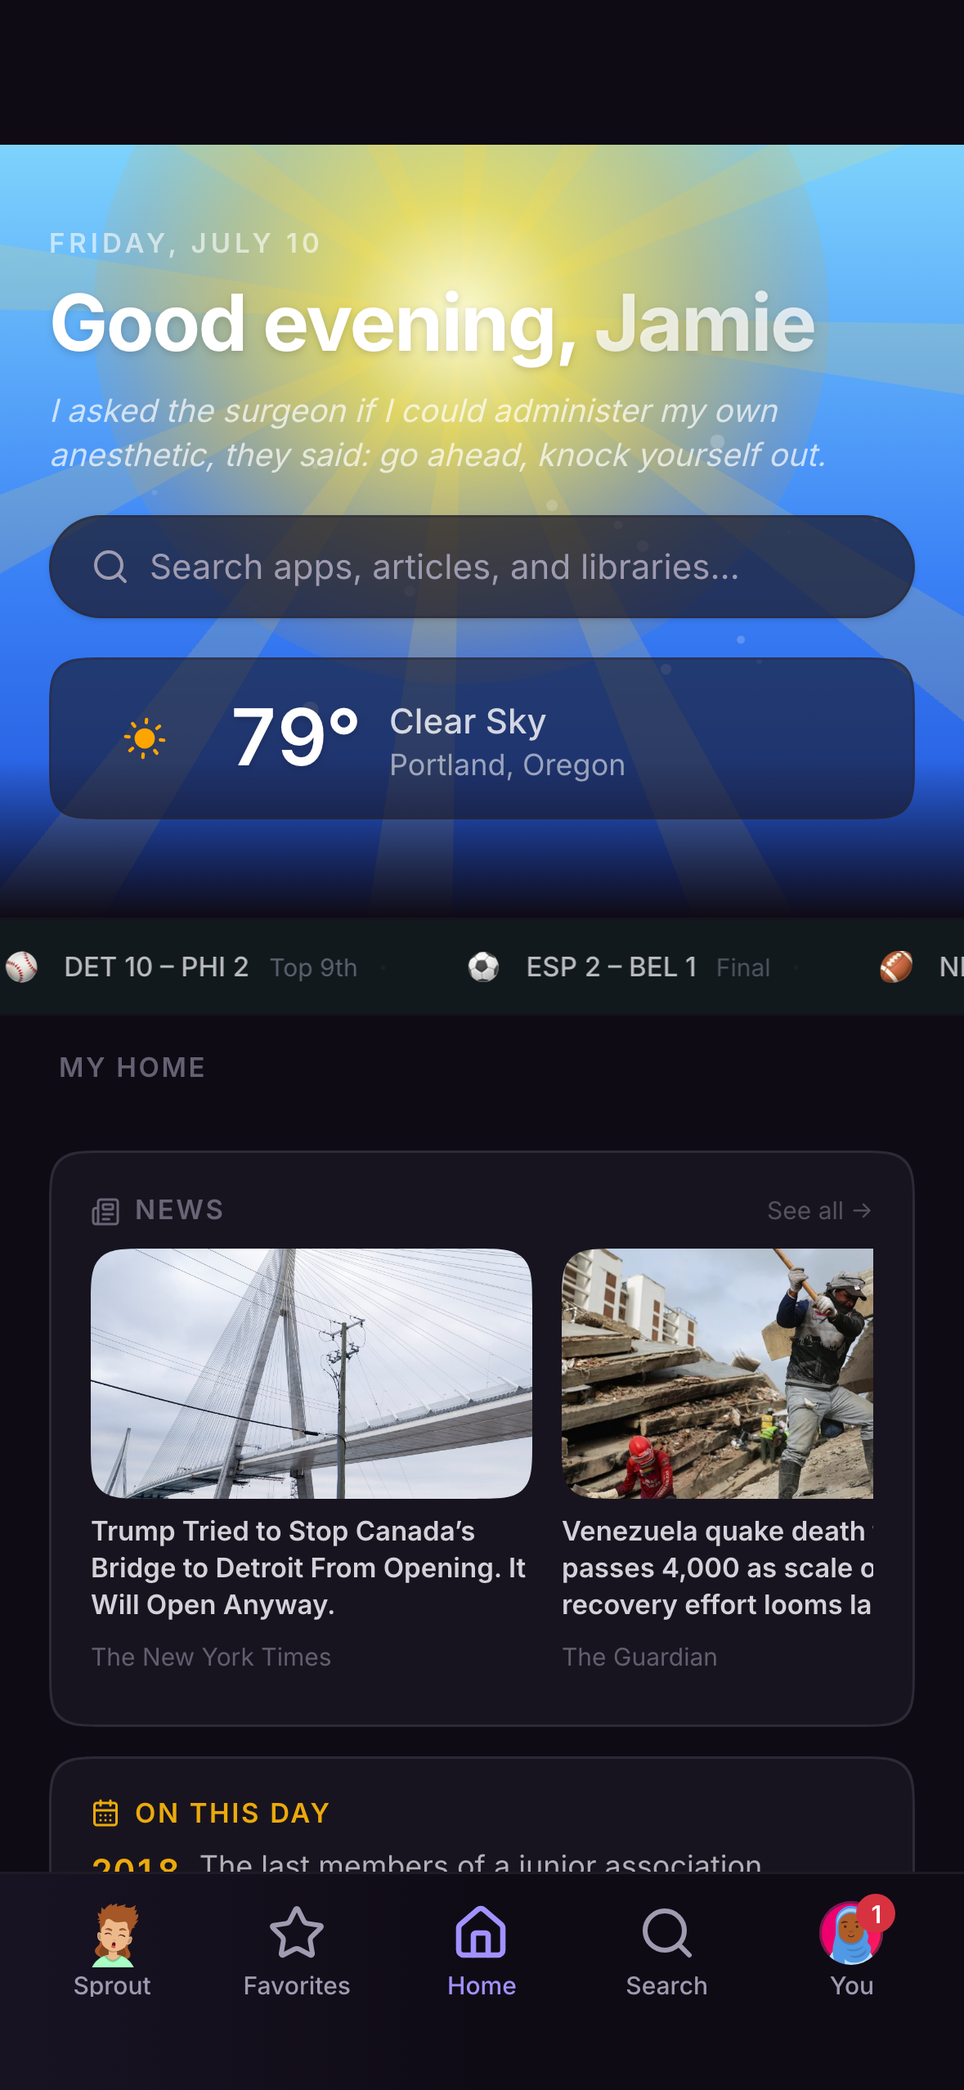
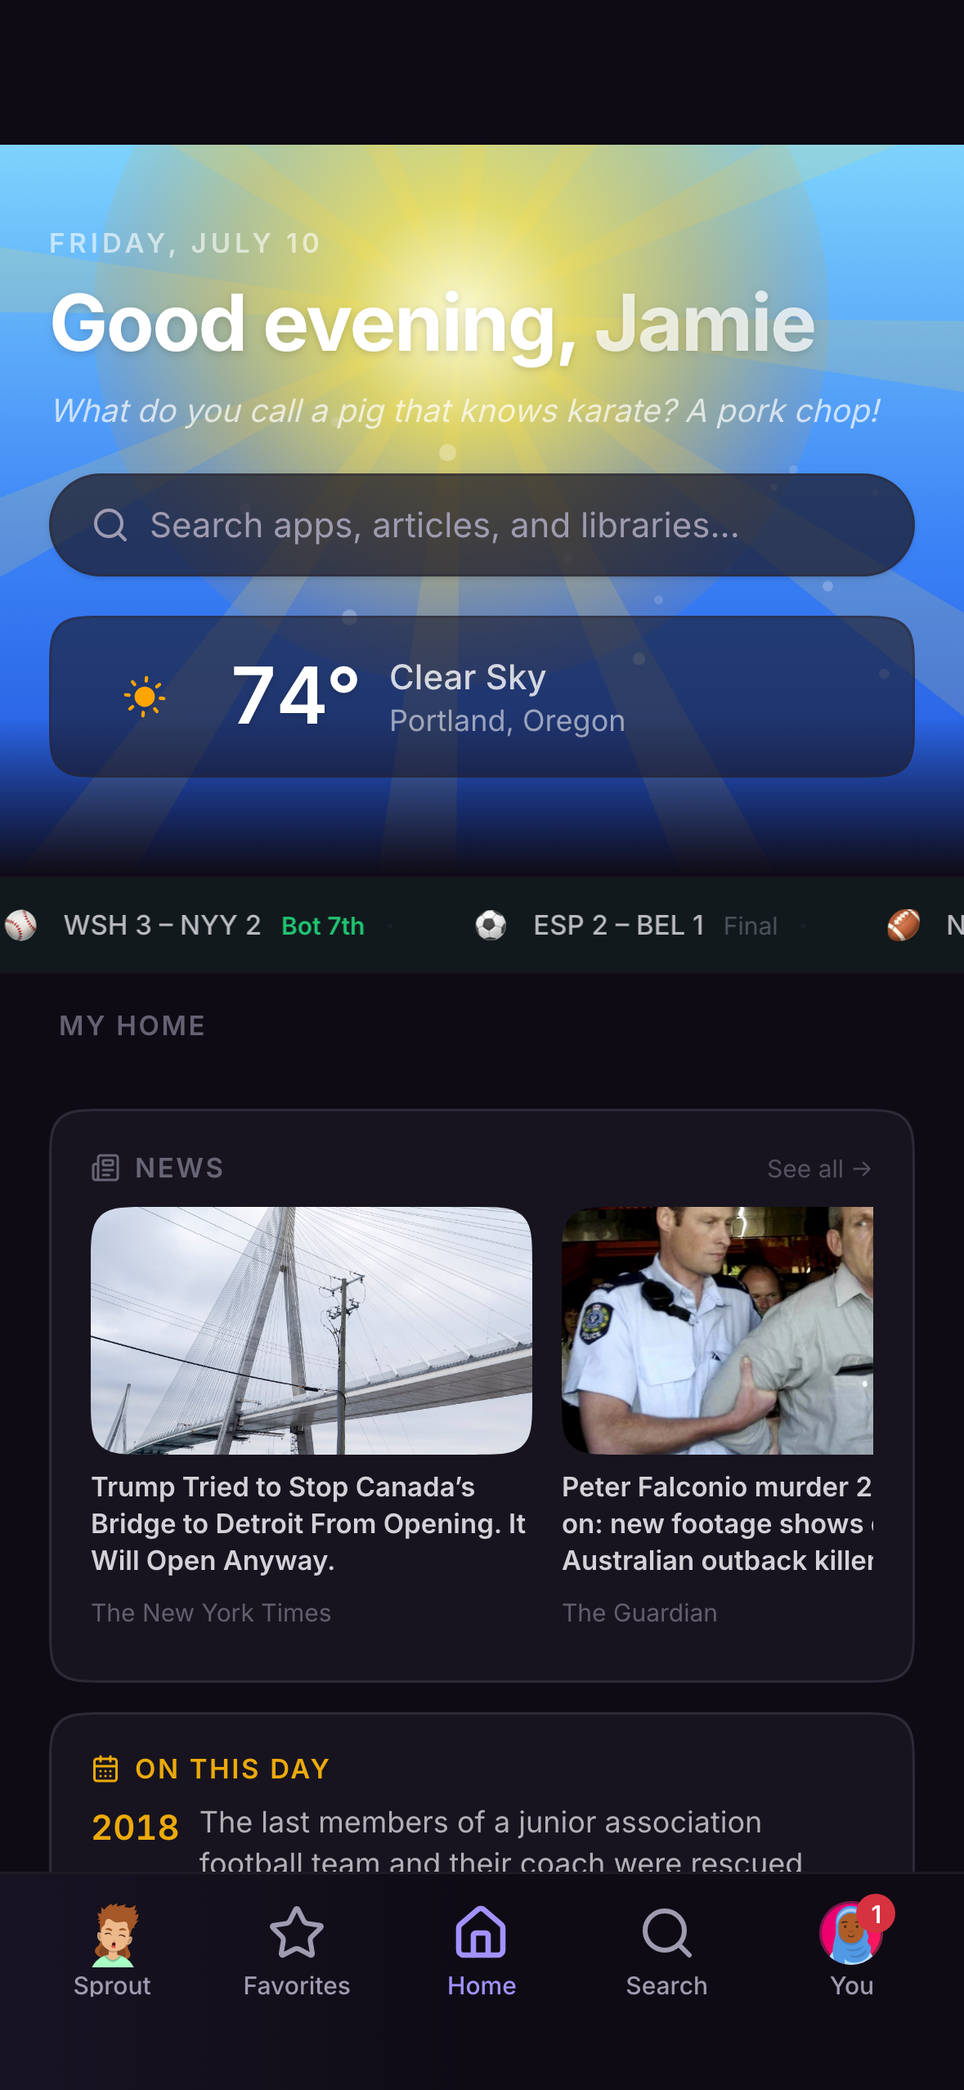
videos: rail pane fills to viewport bottom; paused embed keeps its frame
The side rail becomes a fixed-height flex column ending exactly at the viewport fold,
with each tab's content scrolling inside it - the previous per-tab calc() caps guessed
the offset and cut the last row mid-item with dead space below.

Pause behavior split by state: a mid-watch pause now KEEPS the paused frame - YouTube's
paused chrome is masked instead (top scrim over its title bar, our control bar forced
visible over its bottom row). The thumbnail poster cover only applies where there is no
meaningful frame: before first play (cued) and after the end (endscreen wall).

diff --git a/frontend/src/pages/videos/WatchPage.tsx b/frontend/src/pages/videos/WatchPage.tsx
@@ -180,7 +180,7 @@ function SidePanelShell<T extends string>({ tabs, active, onChange, action, chil
         </div>
         {action}
       </div>
-      <div className="px-1 pt-3">{children}</div>
+      <div className="px-1 pt-3 xl:flex xl:min-h-0 xl:flex-1 xl:flex-col xl:overflow-hidden">{children}</div>
     </div>
   )
 }
@@ -441,7 +441,7 @@ function YoutubeWatch({ videoId }: { videoId: string }) {
 
       {/* Side column: ONE tabbed rail - the queue is the first (default) tab, not a second
           module stacked under the panel. */}
-      <aside className="min-w-0 space-y-5 xl:sticky xl:top-6 xl:self-start">
+      <aside className="min-w-0 xl:sticky xl:top-6 xl:flex xl:h-[calc(100dvh-7rem)] xl:min-h-0 xl:flex-col xl:self-start">
         <SidePanelShell
           tabs={[
             { key: 'upnext' as SideTab, label: pq.active && pq.playlistId ? 'Queue' : 'Up next' },
@@ -462,7 +462,7 @@ function YoutubeWatch({ videoId }: { videoId: string }) {
             pq.active && pq.playlistId ? (
               <PlaylistQueuePanel playlistId={pq.playlistId} playlistName={pq.playlistName} videos={pq.videos} pos={pq.pos} />
             ) : (
-              <div className="space-y-1 xl:max-h-[calc(100dvh-15rem)] xl:overflow-y-auto xl:pr-1">
+              <div className="space-y-1 xl:min-h-0 xl:flex-1 xl:overflow-y-auto xl:pr-1">
                 {upNext.map(i => <UpNextRow key={i.videoId} item={i} />)}
                 {upNext.length === 0 && <p className="px-1 py-4 text-xs text-muted-foreground">Nothing queued.</p>}
               </div>
@@ -792,7 +792,7 @@ function TranscriptTab({ videoId, onSeek, currentSec, source = 'youtube' }: { vi
   const shown = ql ? lines.filter(l => l.text.toLowerCase().includes(ql)) : lines
 
   return (
-    <div className="space-y-3">
+    <div className="space-y-3 xl:flex xl:min-h-0 xl:flex-1 xl:flex-col xl:gap-3 xl:space-y-0">
       {/* design-ok(glass-on-plain-bg): glass field over the UltraBlur cinema backdrop */}
       <div className="flex items-center gap-2 rounded-full bg-white/10 px-3.5 py-2">
         <Search className="size-3.5 text-muted-foreground" />
@@ -800,7 +800,7 @@ function TranscriptTab({ videoId, onSeek, currentSec, source = 'youtube' }: { vi
         <input value={q} onChange={e => setQ(e.target.value)} placeholder="Search transcript" className="w-full bg-transparent text-base outline-none md:text-sm" />
       </div>
       {/* `relative` so the active line's offsetTop is measured against THIS pane. */}
-      <div ref={listRef} className="relative max-h-[440px] space-y-1 overflow-y-auto pr-1 xl:max-h-[calc(100dvh-17rem)]">
+      <div ref={listRef} className="relative max-h-[440px] space-y-1 overflow-y-auto pr-1 xl:max-h-none xl:min-h-0 xl:flex-1">
         {lines.length > 0 ? (
           shown.map((l, idx) => {
             const active = !ql && lines[activeIdx] === l
@@ -835,7 +835,7 @@ function SummaryTab({ videoId, initial, source = 'youtube' }: { videoId: string;
   })
   if (isPending) return <Centered><Spinner /> Summarizing…</Centered>
   if (!data) return <Empty>No summary available. This video has no captions to summarize.</Empty>
-  return <div className="max-h-[480px] space-y-3 overflow-y-auto whitespace-pre-wrap px-1 text-sm leading-relaxed text-foreground/85 xl:max-h-[calc(100dvh-15rem)]">{data}</div>
+  return <div className="max-h-[480px] space-y-3 overflow-y-auto whitespace-pre-wrap px-1 text-sm leading-relaxed text-foreground/85 xl:max-h-none xl:min-h-0 xl:flex-1">{data}</div>
 }
 
 function YoutubeCommentsTab({ videoId }: { videoId: string }) {
@@ -843,7 +843,7 @@ function YoutubeCommentsTab({ videoId }: { videoId: string }) {
   if (isPending) return <Centered><Spinner /> Loading comments…</Centered>
   if (!comments.length) return <Empty>No comments. They may be turned off for this video.</Empty>
   return (
-    <div className="max-h-[520px] space-y-4 overflow-y-auto pr-1 xl:max-h-[calc(100dvh-15rem)]">
+    <div className="max-h-[520px] space-y-4 overflow-y-auto pr-1 xl:max-h-none xl:min-h-0 xl:flex-1">
       {comments.map((c, i) => (
         <div key={i} className="flex gap-2.5">
           <CreatorAvatar title={c.author || '?'} src={c.authorThumb} className="mt-0.5 size-7 shrink-0 text-[10px]" />
@@ -1341,7 +1341,7 @@ function GenericWatch({ source, videoId: id }: { source: VideoSource; videoId: s
 
       {/* Side column: ONE tabbed rail - the queue/watch-next content is the first
           (default) tab, not modules stacked under the panel. */}
-      <aside className="min-w-0 space-y-5 xl:sticky xl:top-6 xl:self-start">
+      <aside className="min-w-0 xl:sticky xl:top-6 xl:flex xl:h-[calc(100dvh-7rem)] xl:min-h-0 xl:flex-col xl:self-start">
         <SidePanelShell tabs={tabs} active={tab} onChange={setExplicitTab}
           action={tab === 'upnext' && pq.active && pq.playlistId ? (
             <label className="flex shrink-0 cursor-pointer items-center gap-2 pr-1 text-xs font-medium text-muted-foreground">
@@ -1356,7 +1356,7 @@ function GenericWatch({ source, videoId: id }: { source: VideoSource; videoId: s
             pq.active && pq.playlistId ? (
               <PlaylistQueuePanel playlistId={pq.playlistId} playlistName={pq.playlistName} videos={pq.videos} pos={pq.pos} />
             ) : (
-              <div className="space-y-5 xl:max-h-[calc(100dvh-15rem)] xl:overflow-y-auto xl:pr-1">
+              <div className="space-y-5 xl:min-h-0 xl:flex-1 xl:overflow-y-auto xl:pr-1">
                 {capabilities?.related && <RelatedVideosCard source={source} excludeId={id} />}
                 {item.creator && <MoreFromCreatorCard source={source} creatorId={item.creator.id} excludeId={id} />}
                 {!capabilities?.related && !item.creator && <Empty>Nothing queued.</Empty>}
@@ -1379,7 +1379,7 @@ function GenericCommentsTab({ source, id }: { source: VideoSource; id: string })
   if (isPending) return <Centered><Spinner /> Loading comments…</Centered>
   if (!comments.length) return <Empty>No comments.</Empty>
   return (
-    <div className="max-h-[520px] space-y-4 overflow-y-auto pr-1 xl:max-h-[calc(100dvh-15rem)]">
+    <div className="max-h-[520px] space-y-4 overflow-y-auto pr-1 xl:max-h-none xl:min-h-0 xl:flex-1">
       {comments.map((cm, i) => (
         <div key={i} className="text-sm">
           <p className="font-medium text-foreground">{cm.author}

diff --git a/frontend/src/components/youtube/VideoPlayer.tsx b/frontend/src/components/youtube/VideoPlayer.tsx
@@ -114,6 +114,13 @@ export const VideoPlayer = forwardRef<VideoPlayerHandle, {
   const posRef = useRef(resumeSec)
 
   const [playing, setPlaying] = useState(false)
+  // Embed idle-state bookkeeping: before first play and after the end there's no frame
+  // worth keeping, so the poster cover hides YouTube's cued/endscreen chrome ("More
+  // videos" wall). A mid-watch PAUSE keeps the actual frame - only YouTube's paused
+  // overlays get masked (top scrim + our control bar forced visible).
+  const [started, setStarted] = useState(false)
+  const [endedUi, setEndedUi] = useState(false)
+  useEffect(() => { setStarted(false); setEndedUi(false) }, [videoId])
   const [pipActive, setPipActive] = useState(false)
   const [position, setPosition] = useState(resumeSec)
   const [duration, setDuration] = useState(0)
@@ -312,10 +319,11 @@ export const VideoPlayer = forwardRef<VideoPlayerHandle, {
             setPlaying(e.data === 1)
             setBuffering(e.data === 3) // 3 = BUFFERING
             if (e.data === 1 || e.data === 2) setBuffering(false)
+            if (e.data === 1) { setStarted(true); setEndedUi(false) }
             // Re-enforce OUR caption preference every time playback (re)starts - YouTube
             // re-applies its sticky captions-on state at play, overriding the onReady set.
             if (e.data === 1) enforceEmbedCc(e.target, ccOnRef.current)
-            if (e.data === YT.PlayerState?.ENDED) { persist(true); onEnded?.() }
+            if (e.data === YT.PlayerState?.ENDED) { setEndedUi(true); persist(true); onEnded?.() }
           },
         },
       })
@@ -513,6 +521,11 @@ export const VideoPlayer = forwardRef<VideoPlayerHandle, {
     ? (PROXY_QUALITIES.find(q => q.value === proxyQuality)?.label ?? 'Auto')
     : useIframe ? (YT_QUALITY_LABEL[embedQuality] ?? 'Auto') : null
 
+  // Mid-watch pause on the embed: KEEP the paused frame (no poster swap) and mask
+  // YouTube's paused chrome instead - top scrim over its title bar, our control bar
+  // forced visible over its bottom row.
+  const pausedFrame = useIframe && !playing && !buffering && started && !endedUi
+
   return (
     <div ref={wrapRef} onMouseLeave={() => { setMenu(null); setBoostOpen(false) }}
       className={cn('group relative overflow-hidden bg-black', !frameless && 'rounded-card',
@@ -585,10 +598,17 @@ export const VideoPlayer = forwardRef<VideoPlayerHandle, {
         </div>
       )}
 
+      {/* Paused-frame mask: hides the embed's paused title bar without covering the frame. */}
+      {pausedFrame && (
+        <div aria-hidden className="pointer-events-none absolute inset-x-0 top-0 z-20 h-24 bg-gradient-to-b from-black/90 via-black/50 to-transparent" />
+      )}
+
       {/* Custom control bar. pointer-events are disabled while it's hidden so the
           full-surface toggle layer below handles taps everywhere; on hover the bar
-          becomes interactive so its scrubber + buttons work. */}
-      <div className="pointer-events-none absolute inset-x-0 bottom-0 z-30 translate-y-2 bg-gradient-to-t from-black/80 to-transparent px-4 pb-3 pt-8 opacity-0 transition group-hover:translate-y-0 group-hover:opacity-100 group-hover:pointer-events-auto">
+          becomes interactive so its scrubber + buttons work. Forced visible while a
+          started embed is paused, so it masks YouTube's own paused bottom chrome. */}
+      <div className={cn('pointer-events-none absolute inset-x-0 bottom-0 z-30 translate-y-2 bg-gradient-to-t from-black/80 to-transparent px-4 pb-3 pt-8 opacity-0 transition group-hover:translate-y-0 group-hover:opacity-100 group-hover:pointer-events-auto',
+        pausedFrame && 'pointer-events-auto translate-y-0 from-black/90 opacity-100')}>
         <div ref={scrubRef} onMouseDown={onScrubDown} onMouseMove={onScrubMove} onMouseLeave={onScrubLeave}
           className="relative mb-3 h-1 cursor-pointer rounded-full bg-white/25">
           {/* SponsorBlock segment markers */}
@@ -728,11 +748,11 @@ export const VideoPlayer = forwardRef<VideoPlayerHandle, {
           only captures pointer events on hover, so taps on the video always toggle. */}
       <button onClick={() => { if (menu) { setMenu(null); return } toggle() }} aria-label={playing ? 'Pause' : 'Play'}
         className="absolute inset-0 z-10 flex items-center justify-center">
-        {/* Idle embed: whenever the iframe isn't actively playing (paused, loading, ended),
-            cover it with our own poster so YouTube's built-in overlays - "More videos",
-            title bar, share/watch-later, logo - never show. The buffering spinner (z-20)
-            sits above this cover. Native paths have no such chrome. */}
-        {useIframe && !playing && (
+        {/* Idle embed BEFORE first play or AFTER the end: no frame worth keeping, so cover
+            the iframe with our own poster to hide YouTube's cued/endscreen chrome ("More
+            videos" wall, title bar, logo). A mid-watch pause keeps the frame (see the
+            pausedFrame scrim + forced control bar instead). */}
+        {useIframe && !playing && (!started || endedUi) && (
           <span aria-hidden className="absolute inset-0">
             <VideoThumb videoId={videoId} title="" quality="hq"
               overrideSrc={ytImageProxy(thumbUrl(videoId, 'maxres'))}

diff --git a/backend/scripts/seed-demo.ts b/backend/scripts/seed-demo.ts
@@ -17,6 +17,7 @@ import { notInArray } from 'drizzle-orm'
 import { join } from 'node:path'
 import { inArray, like, eq } from 'drizzle-orm'
 import { db } from '@/db'
+import { isNull } from 'drizzle-orm'
 import {
   users, profilePins, sessions, userPreferences, toolUserPermissions, characters,
   conversations, messages, memories, notifications,
@@ -90,6 +91,35 @@ async function assignCompanion(p: DemoPersona): Promise<string | null> {
   return char.id
 }
 
+// ── Live metadata enrichment ─────────────────────────────────────────────────
+// Watchlist cards render from the stored posterUrl, so the seed fetches real
+// poster art from keyless public APIs at seed time (TVMaze for shows, iTunes for
+// movies). Network failures degrade gracefully to poster-less cards. TVMaze also
+// returns the canonical show id, which becomes the refId so cards deep-link right.
+async function fetchShowMeta(title: string): Promise<{ id: string; poster: string | null } | null> {
+  try {
+    const res = await fetch(`https://api.tvmaze.com/singlesearch/shows?q=${encodeURIComponent(title)}`)
+    if (!res.ok) return null
+    const show = await res.json() as { id: number; image?: { medium?: string; original?: string } }
+    return { id: String(show.id), poster: show.image?.medium ?? show.image?.original ?? null }
+  } catch { return null }
+}
+
+// Wikipedia REST summary — the article's lead image is the film poster. (iTunes
+// search was the first choice but returns empty for movies from some networks.)
+async function fetchMoviePoster(wikiTitle: string): Promise<string | null> {
+  try {
+    const res = await fetch(`https://en.wikipedia.org/api/rest_v1/page/summary/${encodeURIComponent(wikiTitle.replace(/ /g, '_'))}`)
+    if (!res.ok) return null
+    const data = await res.json() as { thumbnail?: { source?: string }; originalimage?: { source?: string } }
+    return data.thumbnail?.source ?? data.originalimage?.source ?? null
+  } catch { return null }
+}
+
+function faviconFor(url: string): string | null {
+  try { return `https://icons.duckduckgo.com/ip3/${new URL(url).hostname}.ico` } catch { return null }
+}
+
 async function seedContentFor(p: DemoPersona): Promise<void> {
   const now = new Date()
   const hoursAgo = (h: number) => new Date(Date.now() - h * 3600_000)
@@ -104,6 +134,15 @@ async function seedContentFor(p: DemoPersona): Promise<void> {
   }
   if (p.homeLayout) await setPref(p.id, 'home.layout', p.homeLayout)
   if (p.lockedHomeLayout) await setPref(p.id, 'home.layout.locked', true)
+
+  // GLOBAL (admin/shared) bookmarks are visible to every user — including the owner's
+  // real ones, which must never surface in a demo screenshot (the "Claude Status"
+  // incident). Hide every current global bookmark from this demo user via the same
+  // per-user pref the Bookmarks UI uses.
+  const globalBookmarks = await db.select({ id: bookmarks.id }).from(bookmarks).where(isNull(bookmarks.ownerId))
+  if (globalBookmarks.length > 0) {
+    await setPref(p.id, 'bookmarks.hidden', globalBookmarks.map((b) => b.id))
+  }
 
   for (const toolId of p.toolDenials) {
     await db.insert(toolUserPermissions).values({
@@ -137,9 +176,17 @@ async function seedContentFor(p: DemoPersona): Promise<void> {
   }
 
   for (const [i, item] of p.watchlist.entries()) {
+    let refId = item.refId
+    let posterUrl: string | null = null
+    if (item.mediaType === 'show') {
+      const meta = await fetchShowMeta(item.title)
+      if (meta) { refId = meta.id; posterUrl = meta.poster }
+    } else {
+      posterUrl = await fetchMoviePoster(item.wiki ?? item.title)
+    }
     await db.insert(mediaWatchlist).values({
       id: `demo-watch-${p.key}-${i}`, userId: p.id, mediaType: item.mediaType,
-      refId: item.refId, title: item.title, subtitle: item.subtitle, status: item.status,
+      refId, title: item.title, subtitle: item.subtitle, status: item.status, posterUrl,
       addedAt: hoursAgo(24 * (i + 1)), updatedAt: hoursAgo(24 * (i + 1)),
     })
   }
@@ -221,6 +268,7 @@ async function seedContentFor(p: DemoPersona): Promise<void> {
     await db.insert(bookmarks).values({
       id: `demo-bm-${p.key}-${i}`, ownerId: p.id, source: 'bookmark', type: 'live',
       url: bm.url, title: bm.title, siteName: bm.siteName, category: bm.category,
+      faviconUrl: faviconFor(bm.url),
       collectionId: bm.collection && collectionId ? collectionId : null,
       createdAt: hoursAgo(24 * (i + 3)), updatedAt: hoursAgo(24 * (i + 3)),
     })

diff --git a/backend/scripts/seed-demo-data.ts b/backend/scripts/seed-demo-data.ts
@@ -27,7 +27,8 @@ export const DEMO_LOCATION = { displayName: 'Portland, Oregon', lat: 45.5152, ln
 export interface DemoTrack { videoId: string; title: string; artist: string; durationSec: number }
 export interface DemoChannel { externalId: string; title: string; handle?: string }
 export interface DemoVideo { videoId: string; title: string; author: string; durationSec: number }
-export interface DemoWatchlistItem { mediaType: 'show' | 'movie'; refId: string; title: string; subtitle?: string; status: 'want' | 'watching' | 'completed' }
+// wiki: exact Wikipedia article title when the movie title is ambiguous (poster lookup).
+export interface DemoWatchlistItem { mediaType: 'show' | 'movie'; refId: string; title: string; subtitle?: string; status: 'want' | 'watching' | 'completed'; wiki?: string }
 export interface DemoBook { id: string; title: string; author: string; isbn?: string; publishedYear?: number; progress?: number }
 export interface DemoBookmark { url: string; title: string; siteName: string; category: string; collection?: string }
 export interface DemoRadio { name: string; streamUrl: string; tags: string; country: string }
@@ -108,7 +109,9 @@ export const DEMO_PERSONAS: DemoPersona[] = [
       canvas: [
         { id: 'demo-row-news', cols: [{ toolId: 'news', colSpan: 2 }] },
         { id: 'demo-row-media', cols: [{ toolId: 'music', colSpan: 1 }, { toolId: 'watchlist', colSpan: 1 }] },
-        { id: 'demo-row-daily', cols: [{ toolId: 'bookmarks-recent', colSpan: 1 }, { toolId: 'on-this-day', colSpan: 1 }] },
+        { id: 'demo-row-live', cols: [{ toolId: 'sports', colSpan: 1 }, { toolId: 'bookmarks-recent', colSpan: 1 }] },
+        { id: 'demo-row-browse', cols: [{ toolId: 'video-categories', colSpan: 1 }, { toolId: 'jokes', colSpan: 1 }] },
+        { id: 'demo-row-otd', cols: [{ toolId: 'on-this-day', colSpan: 2 }] },
       ],
     },
     toolDenials: [],
@@ -130,7 +133,7 @@ export const DEMO_PERSONAS: DemoPersona[] = [
       { mediaType: 'show', refId: '44913', title: 'Severance', subtitle: 'Apple TV+', status: 'watching' },
       { mediaType: 'show', refId: '60180', title: 'The Bear', subtitle: 'FX', status: 'want' },
       { mediaType: 'movie', refId: 'Dune: Part Two', title: 'Dune: Part Two', subtitle: '2024', status: 'want' },
-      { mediaType: 'movie', refId: 'Oppenheimer', title: 'Oppenheimer', subtitle: '2023', status: 'completed' },
+      { mediaType: 'movie', refId: 'Oppenheimer', title: 'Oppenheimer', subtitle: '2023', status: 'completed', wiki: 'Oppenheimer (film)' },
     ],
     musicPlaylist: {
       name: 'Road Trip Classics',
@@ -148,6 +151,8 @@ export const DEMO_PERSONAS: DemoPersona[] = [
     musicHistory: [
       { track: T.hello, positionSec: 190 },
       { track: T.uptownFunk, positionSec: 270 },
+      { track: T.bohemian, positionSec: 359 },
+      { track: T.teenSpirit, positionSec: 120 },
     ],
     radioStations: [],
     books: [
@@ -261,7 +266,7 @@ export const DEMO_PERSONAS: DemoPersona[] = [
     watchlist: [
       { mediaType: 'show', refId: '35256', title: 'Bluey', subtitle: 'ABC Kids', status: 'watching' },
       { mediaType: 'movie', refId: 'Inside Out 2', title: 'Inside Out 2', subtitle: '2024', status: 'want' },
-      { mediaType: 'movie', refId: 'Moana', title: 'Moana', subtitle: '2016', status: 'completed' },
+      { mediaType: 'movie', refId: 'Moana', title: 'Moana', subtitle: '2016', status: 'completed', wiki: 'Moana (2016 film)' },
     ],
     musicPlaylist: {
       name: 'Dance Party',
@@ -309,7 +314,7 @@ export const DEMO_PERSONAS: DemoPersona[] = [
     watchProgress: [],
     watchlist: [
       { mediaType: 'show', refId: '32604', title: 'The Great British Bake Off', subtitle: 'Channel 4', status: 'watching' },
-      { mediaType: 'movie', refId: 'Casablanca', title: 'Casablanca', subtitle: '1942', status: 'completed' },
+      { mediaType: 'movie', refId: 'Casablanca', title: 'Casablanca', subtitle: '1942', status: 'completed', wiki: 'Casablanca (film)' },
       { mediaType: 'movie', refId: "Singin' in the Rain", title: "Singin' in the Rain", subtitle: '1952', status: 'want' },
     ],
     musicFavorites: [T.hello, T.perfect],

diff --git a/frontend/src/pages/HomePage.tsx b/frontend/src/pages/HomePage.tsx
@@ -1089,7 +1089,7 @@ function WidgetBookmarksRecent({ displayMode = 'column' }: { displayMode?: 'row'
   useEffect(() => {
     fetch(`/api/bookmarks?limit=${limit}`, { credentials: 'include' })
       .then(r => r.ok ? r.json() : null)
-      .then((d: { items?: BookmarkItem[] } | null) => { setItems((d?.items ?? []).slice(0, show)); })
+      .then((d: { items?: BookmarkItem[] } | null) => { setItems((d?.items ?? []).filter(b => !b.isHidden).slice(0, show)); })
       .catch(() => {})
       .finally(() => setLoading(false));
   }, [limit, show]);
